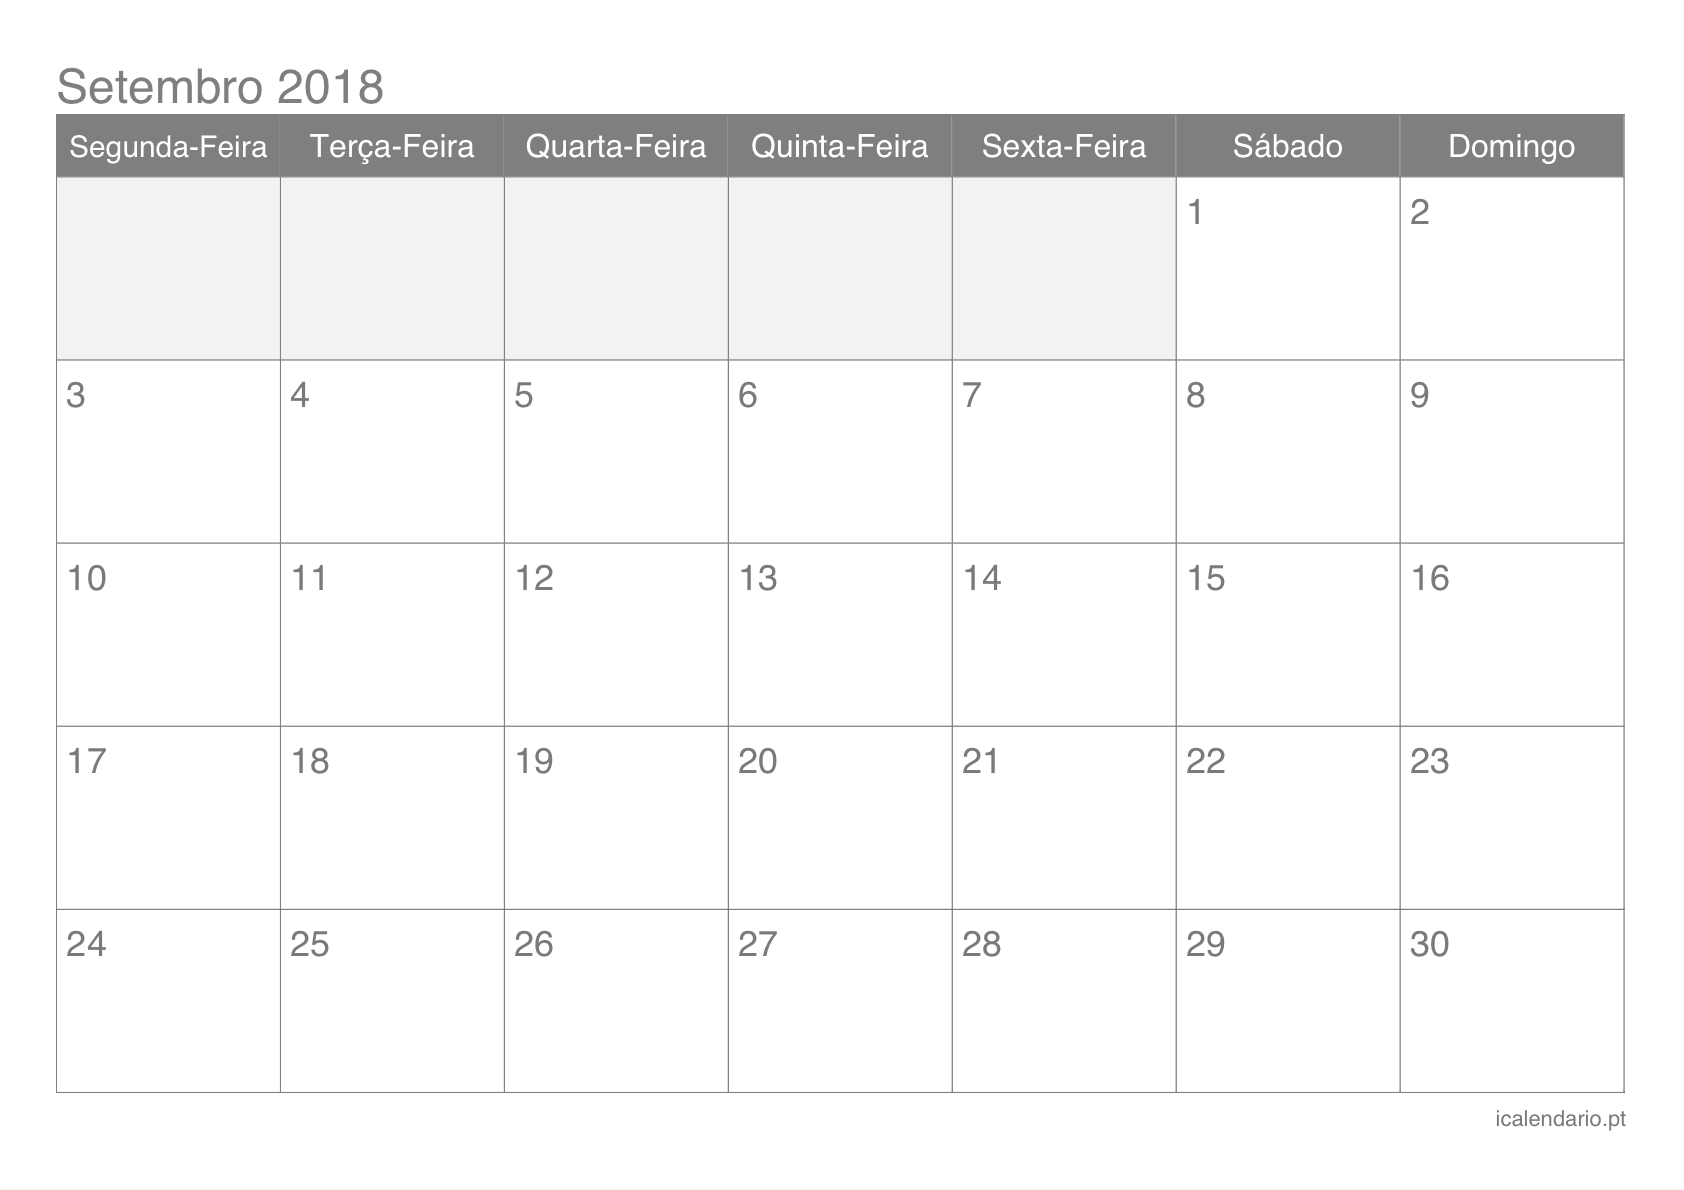
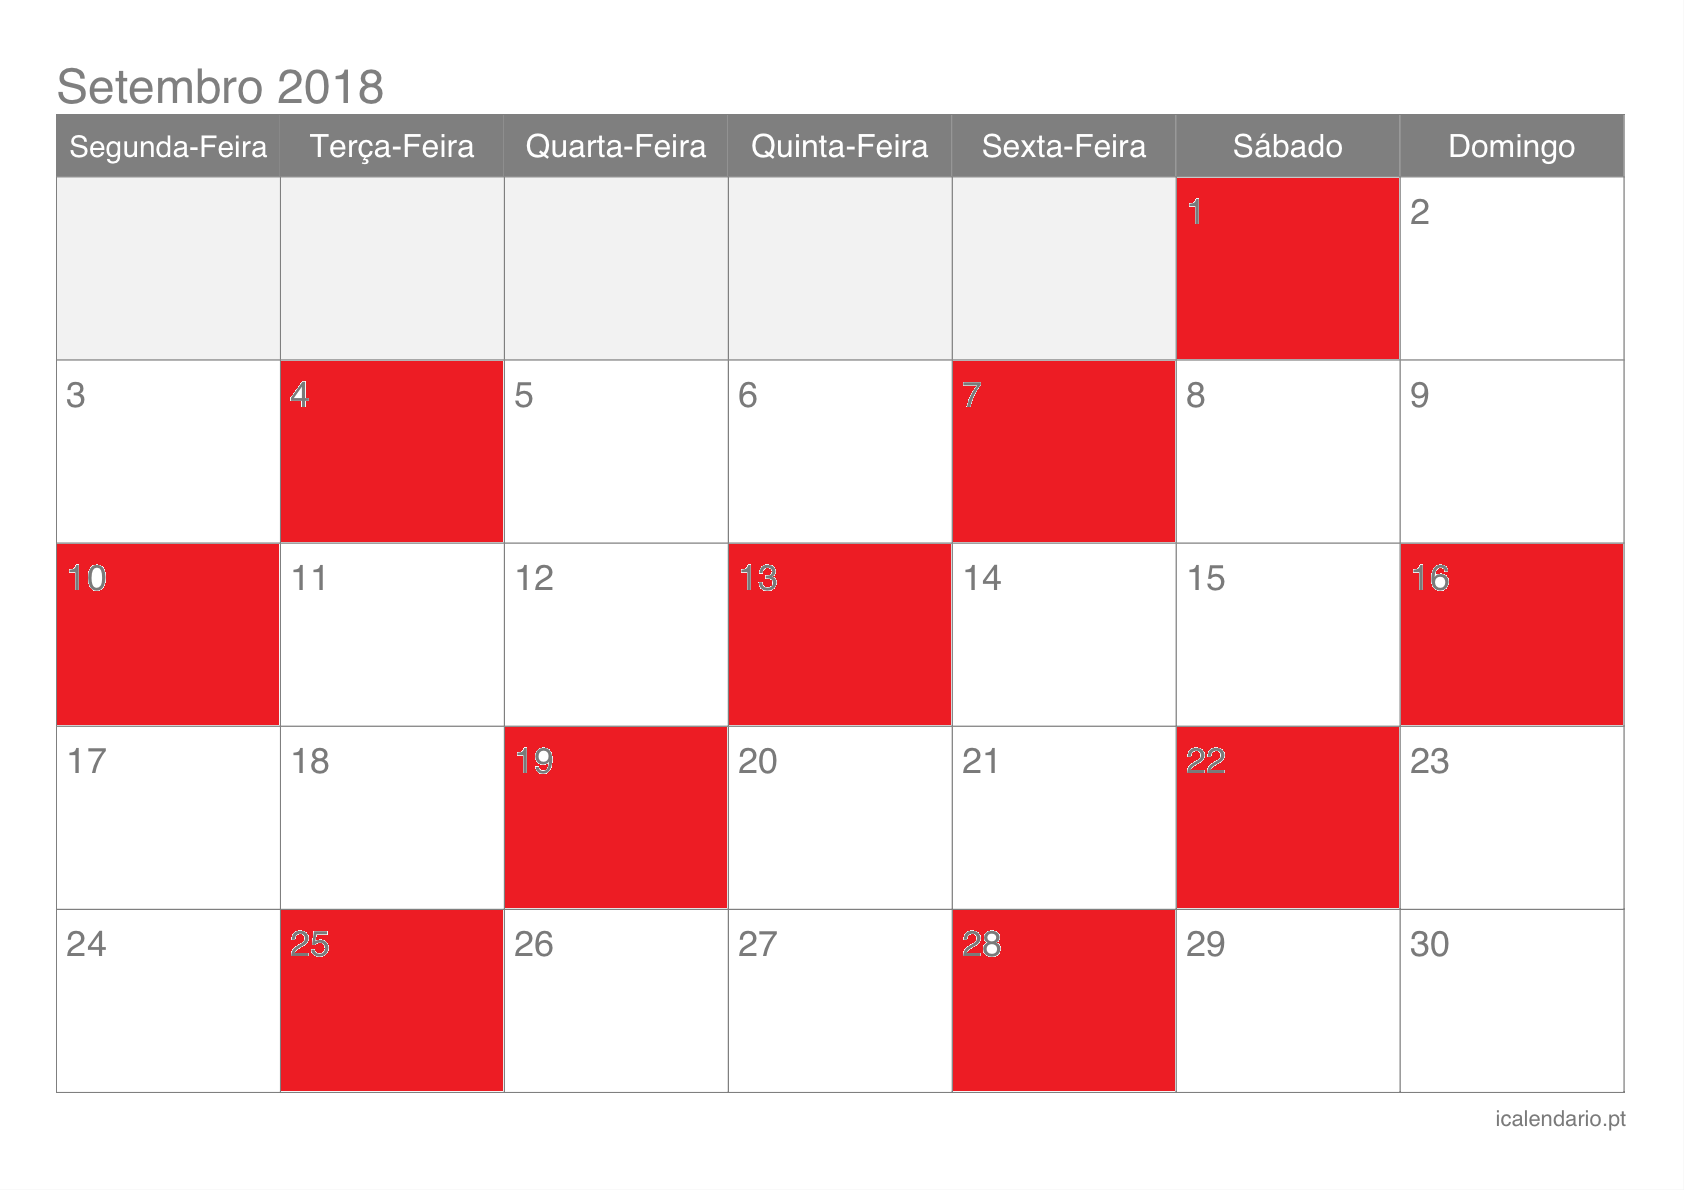
feat result page

Changed region(s): [[0.1544, 0.1244, 0.8337, 0.9328], [0.5558, 0.4353, 0.9881, 0.9328], [0.0309, 0.2798, 0.3088, 0.6218]]

diff --git a/mokup/appNamorado.html b/mokup/appNamorado.html
@@ -10,15 +10,15 @@
     <div class="container">
         <div class="startJob ">
             <h2>Inicio do trabalho</h2>
-            <input type="text" class="input" placeholder="XX/XX/XXXX"/>
+            <input value="01/01/2018" type="text" class="input" placeholder="XX/XX/XXXX"/>
         </div>
         <div class="finishedJob">
             <h2>Término do trabalho</h2>
-            <input type="text" class="input" placeholder="XX/XX/XXXX"/>
+            <input value="29/01/2018" type="text" class="input" placeholder="XX/XX/XXXX"/>
         </div>
         <div class="scale">
             <h2>Escala</h3>
-            <input type="text" class="input" placeholder="XX/XX"/>
+            <input value="24/48" type="text" class="input" placeholder="XX/XX"/>
         </div>    
         <div class="button">
             <button id='concluido'>Conclúido</button>

diff --git a/mokup/resultMokup.html b/mokup/resultMokup.html
@@ -3,8 +3,34 @@
 <head>
         <link rel="stylesheet" href="./resultMokup.css"/>
 </head>
-<body> 
+<body>
+    <div class="titlePage">
     <h1>Resultado</h1>
+    </div>
     <img src="calendario.png" class="imgCalendar"/> 
+    <div class="description">
+        <h3>
+            Dias Trabalhados:
+        </h3>
+        <P>01/01/2018</P>
+        <P>04/01/2018</P>
+        <P>07/01/2018</P>
+        <P>10/01/2018</P>
+        <p>13/01/2018</p> 
+        <p>16/01/2018</p>     
+        <p>19/01/2018</p>
+        <p>22/01/2018</p>    
+        <p>25/01/2018</p>  
+        <p>28/01/2018</p>            
+        <h3>
+            Horas Trabalhadas:
+        </h3>
+        <P>
+            240 Horas
+        </P>
+        <h3>
+
+        </h3>
+    </div>
 </body>
 </html>

diff --git a/mokup/resultMokup.css b/mokup/resultMokup.css
@@ -1,7 +1,19 @@
 body{
     background-image: url('./images.jpeg')   ;
 }
-.imgCalendar{
-    width: 40%;
-    right: 50%;
+.titlePage{
+    text-align: center; 
 }
+.description{
+    width: 40%;
+    height: 40%;
+    margin-top:-37%;
+    border: outset;
+    padding:25px;
+}
+.imgCalendar{
+    width: 50%;
+    height: 60%;
+    margin-left:45%;
+}
+
